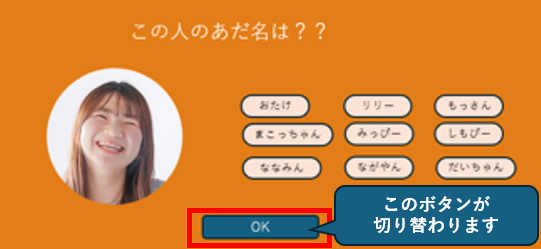
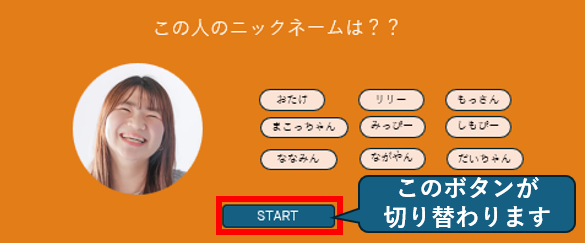
レビュー修正

diff --git a/docs/基本設計/画面設計書/ゲーム画面.md b/docs/基本設計/画面設計書/ゲーム画面.md
@@ -6,25 +6,15 @@
 
 ### 画面概要説明
 
-- 新入社員の方が直面する”あだ名と顔がなかなか覚えられない問題”を解決するために開発する『この人だぁーれ？』ゲームのプレー画面
-- 表示された画像のあだ名を回答するか、表示されたあだ名の持ち主である人の画像を回答するかを選択可能
-- どこの部署に所属している人を問題にするかを選択可能
-  - 選択可能な部署(本社)の一覧は以下の通り
+- 新入社員の方が直面する”ニックネームと顔がなかなか覚えられない問題”を解決するために開発する『この人だぁーれ？』ゲームのプレー画面
+- 2つのモードを選択してゲーム可能
+  - 顔写真を見て、ニックネームを回答するモード
+![alt text](./images/ニックネーム回答.png)
+   - ニックネームを見て、顔写真を回答するモード
+![alt text](./images/顔回答.png)
 
-    | 部署                    | 選択 |
-    | ----------------------- | ---- | 
-    | OFS東京事業部           |  -   |
-    | 総務部                  | 〇   | 
-    | システム開発部          | 〇   |
-    | サプリ販促事業部        | 〇   | 
-    | コスメ販促事業部        | 〇   |
-    | ヨコテン事業部          | 〇   | 
-    | 制作事業部              | 〇   | 
-    | 情報管理部              | 〇   | 
-    | サプリコスメ製造発送部  |  -   | 
-    | OFS製造発送部           |  -   | 
-    | コンシェルジュ部        | 〇   | 
-    
+- 部署選択
+  - 全部署表示されるが、今バージョンはシステム開発部のみ選択可能とする    
 - ゲーム開始前[START] → ゲーム中[OK] の様に、ボタンの表示が遷移する
 
 ![alt text](./images/ボタン遷移.png)
@@ -47,30 +37,32 @@
 
 ### 画面項目定義
 
-| No  | 項目名                                                         | 項目種別    | 備考                               |
-| --- | -------------------------------------------------------------- | ------------| ---------------------------------- |
-| 1   | どっちで回答する？                                             | ラベル      |                                    |
-| 2   | あだ名ボタン                                                   | ボタン      |                                    |
-| 3   | 顔ボタン                                                       | ボタン      |                                    |
-| 4   | 部署選択                                                       | ラジオボタン|                                    |
-| 5   | 問題・回答用顔画像                                             | 画像        |                                    |
-| 6   | 問題・回答用あだ名                                             | ボタン      |                                    |
-| 7   | START,OK                                          | ボタン      |                                    |
-| 8   | 成績一覧                                                       | 表          |                                    |
-| 9   | 成績一覧                                                       | グラフ      |                                    |
-| 10  | ダイアログ                                                     | ラベル      |（正解時）正解！！ （不正解時）不正解！！ （終了時）お疲れさまでした^^|
-| 11  | ダイアログ                                                     | ラベル      |（正解時）〇 （不正解時）× （終了時）あなたの正解数は〇問/□問 おめでとうございます！|
-| 12  | ダイアログ                                                     | ボタン      |（正解・不正解時）次の問題へ （終了時）閉じる                         |
+| No  | 項目名                                                         | 項目種別    | 備考                                       |
+| --- | -------------------------------------------------------------- | ------------| ------------------------------------------ |
+| 1   | どっちで回答する？                                             | ラベル      |                                            |
+| 2   | ニックネームボタン                                             | ボタン      |                                            |
+| 3   | 顔ボタン                                                       | ボタン      |                                            |
+| 4   | 部署選択                                                       | ラジオボタン| システム開発部以外は選択できないようにする |
+| 5   | 問題用顔画像                                                   | 画像        | 重複がないように、ランダムで表示           |
+| 6   | 回答用顔画像                                                   | 画像        | システム開発部全員の顔写真を表示する       |
+| 7   | 問題用ニックネーム                                             | ラベル      | 重複がないように、ランダムで表示           |
+| 8   | 回答用ニックネーム                                             | ボタン      | システム開発部全員のニックネームを表示する |
+| 9   | START,OK                                                       | ボタン      |                                            |
+| 10  | 成績一覧                                                       | 表          |                                            |
+| 11  | 成績一覧                                                       | グラフ      |                                            |
+| 12  | ダイアログ（ラベル）                                           | ダイアログ  |（正解時）正解！！ （不正解時）不正解！！ （終了時）お疲れさまでした^^|
+| 13  | ダイアログ（ラベル）                                           | ダイアログ  |（正解時）〇 （不正解時）× （終了時）あなたの正解数は〇問/□問 おめでとうございます！|
+| 14  | ダイアログ（ボタン）                                           | ダイアログ  |（正解・不正解時）次の問題へ （終了時）閉じる                         |
 
 ### 画面イベント
 
-| No  | 項目 No  | 概要                               | 備考                                   |
-| --- | -------- | ---------------------------------- | -------------------------------------- |
-| 1   | 画面初期 | この人だぁーれゲーム               |                                        |
-| 2   | 2        | あだ名回答ゲーム                   | 表示された画像のあだ名を回答するゲーム |
-| 3   | 3        | 顔回答ゲーム                       | 表示されたあだ名の画像を回答するゲーム       |
-| 4   | 4        | 問題がセットされる                 | 選択された部署の問題がセットされる     |
-| 5   | 7        | ゲーム全体をコントロール           | (START)ゲームを開始 (OK)選択された回答の正誤判定 |
-| 6   | 8        | 成績の一覧を表示                   | ゲーム中だけ表示しない                 |
-| 7   | 9        | 成績のグラフを表示                 | ゲーム中だけ表示しない                 |
-| 8   | 12       | 次の問題表示、ゲームの終了         |                                        |
+| No  | 項目 No  | 概要                               | 備考                                                                 |
+| --- | -------- | ---------------------------------- | -------------------------------------------------------------------- |
+| 1   | 画面初期 | この人だぁーれゲーム               |                                                                      |
+| 2   | 2        | ニックネーム回答ゲーム             | 顔写真を見て、ニックネームを回答するモード                           |
+| 3   | 3        | 顔回答ゲーム                       | ニックネームを見て、顔写真を回答するモード                           |
+| 4   | 4        | 問題がセットされる                 | 今バージョンではシステム開発部のみ対象                               |
+| 5   | 9        | ゲーム全体をコントロール           | (START)ゲーム開始、ランダムでお題を抽選 (OK)選択された回答の正誤判定 |
+| 6   | 10       | 成績の一覧を表示                   | ゲーム中は表示しない                                                 |
+| 7   | 11       | 成績のグラフを表示                 | ゲーム中は表示しない                                                 |
+| 8   | 14       | 次の問題表示、ゲームの終了         | (正解・不正解時)ランダムで次のお題を抽選 （終了時）成績を表示        |
